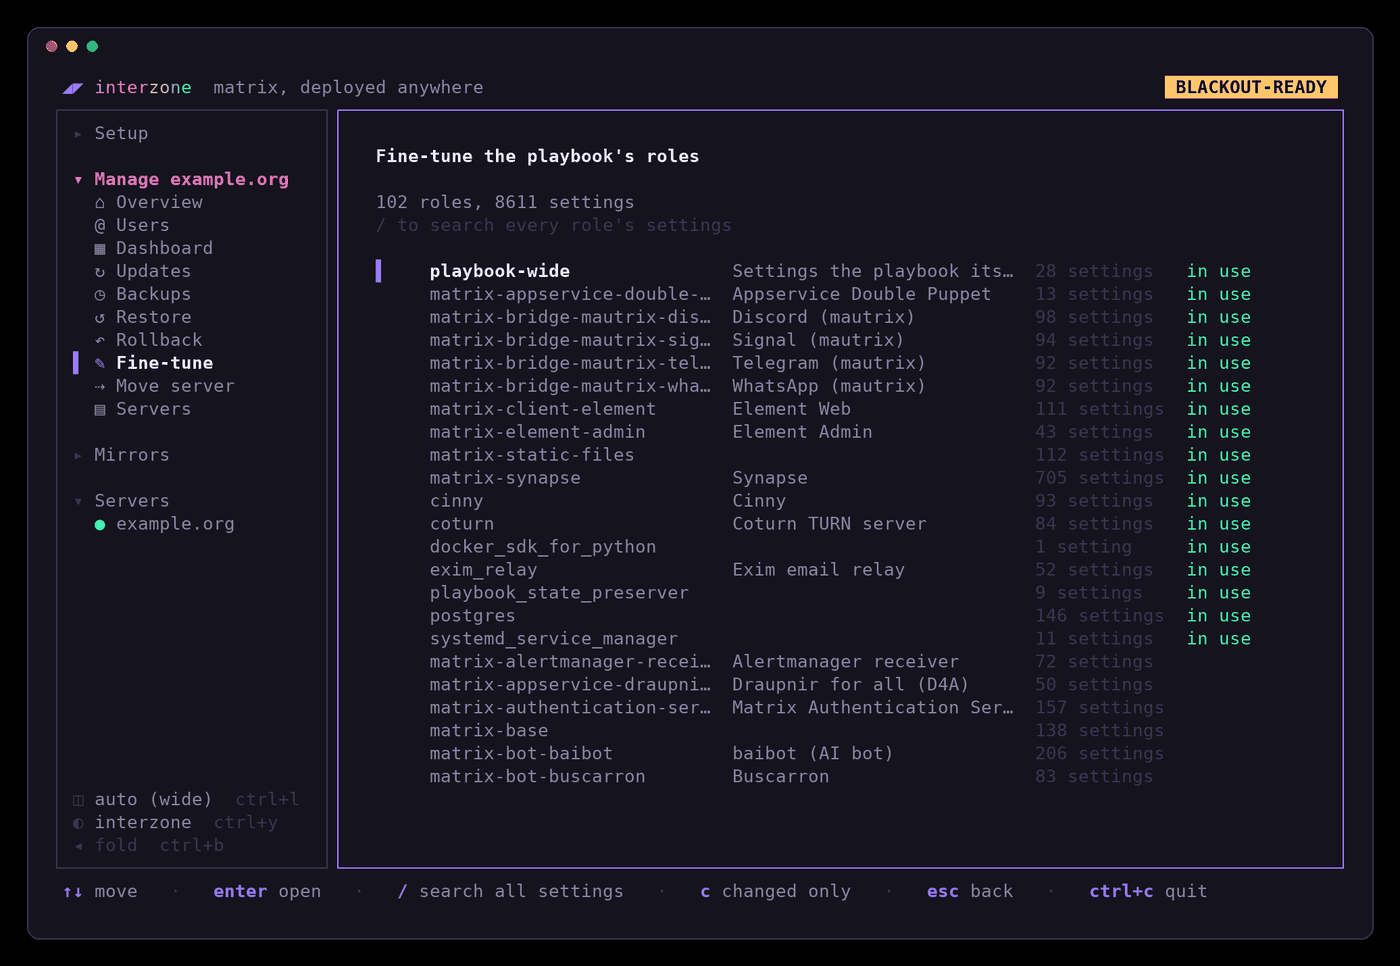
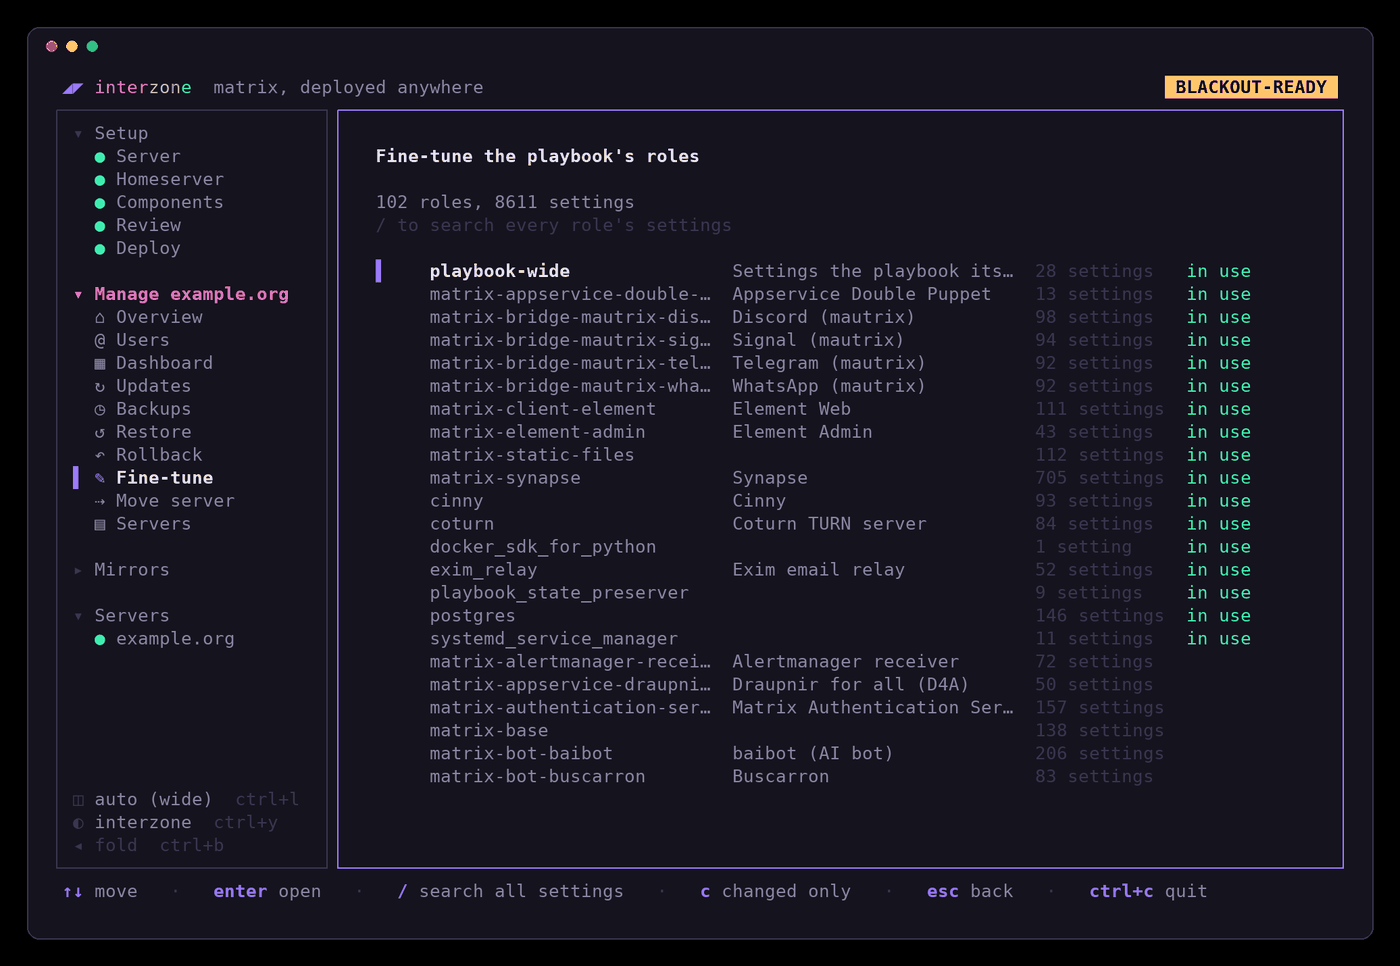
shots.sh all: retake every screenshot in one go
It drives the demo through the screens itself: Manage, Welcome, the
setup steps, Fine-tune, the Users drawing and the three phone shots.
It waits for each screen's own text before saving it, gives up with the
screen it saw when one doesn't come, and never presses enter on Manage.
start links your playbook copy into the demo, so Fine-tune has roles to
list. Two runs in a row give identical images.

Changed region(s): [[0.0614, 0.1553, 0.215, 0.559], [0.0614, 0.6211, 0.1536, 0.6832]]

diff --git a/README.md b/README.md
@@ -254,8 +254,8 @@ install itself from a PyPI mirror).
 (46×40) and desktop (120×36) size and compare them with
 `internal/ui/testdata/layout`; after an intended change, accept the new
 drawings with `go test ./internal/ui -run Layout -update`. The README's
-screenshots are retaken with `scripts/screenshots/shots.sh` (tmux, Python
-with Pillow).
+screenshots are retaken with `scripts/screenshots/shots.sh all` (tmux, Python
+with Pillow), about 15 seconds, against a demo server that doesn't exist.
 
 ## Use
 
